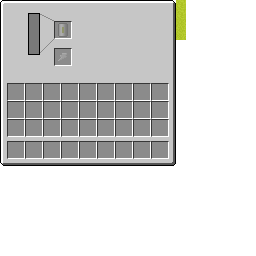
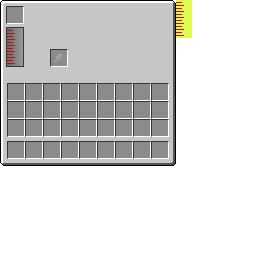
Recoded and redesigned the Fuel Loader GUI (not everything is functional at the moment)

diff --git a/src/minecraft/micdoodle8/mods/galacticraft/core/client/gui/GCCoreGuiFuelLoader.java b/src/minecraft/micdoodle8/mods/galacticraft/core/client/gui/GCCoreGuiFuelLoader.java
@@ -2,9 +2,12 @@ package micdoodle8.mods.galacticraft.core.client.gui;
 
 import mekanism.api.EnumColor;
 import micdoodle8.mods.galacticraft.API.IRefinableItem;
+import micdoodle8.mods.galacticraft.core.GalacticraftCore;
 import micdoodle8.mods.galacticraft.core.inventory.GCCoreContainerFuelLoader;
 import micdoodle8.mods.galacticraft.core.items.GCCoreItemFuelCanister;
+import micdoodle8.mods.galacticraft.core.items.GCCoreItems;
 import micdoodle8.mods.galacticraft.core.tile.GCCoreTileEntityFuelLoader;
+import net.minecraft.client.gui.GuiButton;
 import net.minecraft.client.gui.inventory.GuiContainer;
 import net.minecraft.entity.player.InventoryPlayer;
 import net.minecraft.item.ItemStack;
@@ -15,6 +18,7 @@ import org.lwjgl.opengl.GL11;
 
 import universalelectricity.core.electricity.ElectricityDisplay;
 import universalelectricity.core.electricity.ElectricityDisplay.ElectricUnit;
+import cpw.mods.fml.common.FMLLog;
 
 /**
  * Copyright 2012-2013, micdoodle8
@@ -25,6 +29,8 @@ import universalelectricity.core.electricity.ElectricityDisplay.ElectricUnit;
 public class GCCoreGuiFuelLoader extends GuiContainer
 {
     private final GCCoreTileEntityFuelLoader fuelLoaderInv;
+	
+    private GuiButton buttonLoadFuel;
 
 	public GCCoreGuiFuelLoader(InventoryPlayer par1InventoryPlayer, GCCoreTileEntityFuelLoader par2TileEntityAirDistributor)
 	{
@@ -33,26 +39,39 @@ public class GCCoreGuiFuelLoader extends GuiContainer
         this.ySize = 180;
 	}
 
+	@Override
+    public void initGui()
+    {
+    	super.initGui();
+    	
+        this.buttonList.add(buttonLoadFuel = new GuiButton(0, this.width / 2 + 2, this.height / 2 - 49, 76, 20, "Load Fuel"));
+    }
+
     @Override
     protected void drawGuiContainerForegroundLayer(int par1, int par2)
     {
-        this.fontRenderer.drawString("Fuel Loader", 60, 10, 4210752);
-        String status = "Status: ";
-        this.fontRenderer.drawString(status, this.xSize / 2 - this.fontRenderer.getStringWidth(status) / 2 + 35, 30, 4210752);
-        status = this.getStatus();
-        this.fontRenderer.drawString(status, this.xSize / 2 - this.fontRenderer.getStringWidth(status) / 2 + 35, 40, 4210752);
-        status = ElectricityDisplay.getDisplay(this.fuelLoaderInv.WATTS_PER_TICK * 20, ElectricUnit.WATT);
-        this.fontRenderer.drawString(status, this.xSize / 2 - this.fontRenderer.getStringWidth(status) / 2 + 35, 50, 4210752);
-        status = ElectricityDisplay.getDisplay(this.fuelLoaderInv.getVoltage(), ElectricUnit.VOLTAGE);
-        this.fontRenderer.drawString(status, this.xSize / 2 - this.fontRenderer.getStringWidth(status) / 2 + 35, 60, 4210752);
-        this.fontRenderer.drawString(StatCollector.translateToLocal("container.inventory"), 8, this.ySize - 102, 4210752);
+    	this.fontRenderer.drawString("Fuel Loader", 60, 10, 4210752);
+        this.buttonLoadFuel.enabled = !(this.fuelLoaderInv.fuelTank.getLiquid() == null || this.fuelLoaderInv.fuelTank.getLiquid().amount == 0);
+		this.fontRenderer.drawString("Status: " + this.getStatus(), 28, 45 + 23 - 46, 4210752);
+		this.fontRenderer.drawString(ElectricityDisplay.getDisplay(this.fuelLoaderInv.WATTS_PER_TICK * 20, ElectricUnit.WATT), 28, 56 + 23 - 46, 4210752);
+		this.fontRenderer.drawString(ElectricityDisplay.getDisplay(this.fuelLoaderInv.getVoltage(), ElectricUnit.VOLTAGE), 28, 68 + 23 - 46, 4210752);
+		this.fontRenderer.drawString(StatCollector.translateToLocal("container.inventory"), 8, this.ySize - 118 + 2 + 11, 4210752);
+//        String status = "Status: ";
+//        this.fontRenderer.drawString(status, this.xSize / 2 - this.fontRenderer.getStringWidth(status) / 2 + 35, 30, 4210752);
+//        status = this.getStatus();
+//        this.fontRenderer.drawString(status, this.xSize / 2 - this.fontRenderer.getStringWidth(status) / 2 + 35, 40, 4210752);
+//        status = ElectricityDisplay.getDisplay(this.fuelLoaderInv.WATTS_PER_TICK * 20, ElectricUnit.WATT);
+//        this.fontRenderer.drawString(status, this.xSize / 2 - this.fontRenderer.getStringWidth(status) / 2 + 35, 50, 4210752);
+//        status = ElectricityDisplay.getDisplay(this.fuelLoaderInv.getVoltage(), ElectricUnit.VOLTAGE);
+//        this.fontRenderer.drawString(status, this.xSize / 2 - this.fontRenderer.getStringWidth(status) / 2 + 35, 60, 4210752);
+//        this.fontRenderer.drawString(StatCollector.translateToLocal("container.inventory"), 8, this.ySize - 102, 4210752);
     }
     
     private String getStatus()
     {
-    	if (this.fuelLoaderInv.getStackInSlot(1) != null && (this.fuelLoaderInv.getStackInSlot(1).getMaxDamage() - this.fuelLoaderInv.getStackInSlot(1).getItemDamage()) == 0)
+    	if (this.fuelLoaderInv.fuelTank.getLiquid() == null || this.fuelLoaderInv.fuelTank.getLiquid().amount == 0)
     	{
-    		return EnumColor.DARK_RED + "Fuel Canister Empty!";
+    		return EnumColor.DARK_RED + "No Fuel to Load!";
     	}
 
     	if (this.fuelLoaderInv.getStackInSlot(1) != null && !(this.fuelLoaderInv.getStackInSlot(1).getItem() instanceof IRefinableItem))
@@ -60,22 +79,17 @@ public class GCCoreGuiFuelLoader extends GuiContainer
     		return EnumColor.DARK_RED + "Item Cannot Be Loaded!";
     	}
     	
-    	if (this.fuelLoaderInv.getStackInSlot(1) == null)
-    	{
-    		return EnumColor.DARK_RED + "No Fuel To Load!";
-    	}
-    	
-    	if (this.fuelLoaderInv.getStackInSlot(1).getItem() instanceof GCCoreItemFuelCanister && (this.fuelLoaderInv.wattsReceived > 0 || this.fuelLoaderInv.ic2WattsReceived > 0))
+    	if (this.fuelLoaderInv.wattsReceived > 0 || this.fuelLoaderInv.ic2WattsReceived > 0)
     	{
     		return EnumColor.DARK_GREEN + "Active";
     	}
+		
+//    	if (this.fuelLoaderInv.wattsReceived == 0 && this.fuelLoaderInv.ic2WattsReceived == 0)
+//    	{
+//    		return EnumColor.DARK_RED + "Not Enough Power";
+//    	}
     	
-    	if (this.fuelLoaderInv.wattsReceived == 0 && this.fuelLoaderInv.ic2WattsReceived == 0)
-    	{
-    		return EnumColor.DARK_RED + "Not Enough Power";
-    	}
-    	
-    	return EnumColor.DARK_RED + "Unknown";
+    	return EnumColor.ORANGE + "Ready";
     }
 
 	@Override
@@ -87,20 +101,9 @@ public class GCCoreGuiFuelLoader extends GuiContainer
 		final int var6 = (this.height - this.ySize) / 2;
 		this.drawTexturedModalRect(var5, var6 + 5, 0, 0, this.xSize, 181);
 		
-    	final ItemStack stack = this.fuelLoaderInv.getStackInSlot(1);
-
-    	if (stack != null)
-    	{
-			int scale = (int) ((double) (stack.getMaxDamage() - stack.getItemDamage()) / (double) stack.getMaxDamage() * 124);
-
-        	if (stack != null)
-        	{
-        		final int fuelLevel = stack.getMaxDamage() - stack.getItemDamage();
-        		
-        		float ratio = stack.getMaxDamage() / 40.0F;
-        		
-                this.drawTexturedModalRect(var5 + 29, MathHelper.ceiling_float_int(var6 + 58 - fuelLevel / ratio), 176, 0, 10, MathHelper.ceiling_float_int(fuelLevel / ratio));
-        	}
-        }
+		
+		final int fuelLevel = this.fuelLoaderInv.fuelTank.getLiquid() == null ? 0 : (this.fuelLoaderInv.fuelTank.getLiquid().amount / (GalacticraftCore.fuelStack.amount / GCCoreItems.fuelCanister.getMaxDamage() + 1));
+		
+        this.drawTexturedModalRect(((width - xSize) / 2) + 7, ((height - ySize) / 2) + 17 + 54 - fuelLevel, 176, 38 - fuelLevel, 16, fuelLevel);
 	}
 }

diff --git a/src/minecraft/micdoodle8/mods/galacticraft/core/tile/GCCoreTileEntityFuelLoader.java b/src/minecraft/micdoodle8/mods/galacticraft/core/tile/GCCoreTileEntityFuelLoader.java
@@ -160,7 +160,7 @@ public class GCCoreTileEntityFuelLoader extends TileEntityElectricityRunnable im
 	@Override
 	public Packet getDescriptionPacket()
 	{
-		return PacketManager.getPacket(BasicComponents.CHANNEL, this, this.wattsReceived, this.disabledTicks, this.ic2WattsReceived);
+		return PacketManager.getPacket(BasicComponents.CHANNEL, this, this.wattsReceived, this.disabledTicks, this.ic2WattsReceived, this.fuelTank.getLiquid() == null ? 0 : this.fuelTank.getLiquid().amount);
 	}
 
 	@Override
@@ -170,9 +170,11 @@ public class GCCoreTileEntityFuelLoader extends TileEntityElectricityRunnable im
 		{
 			if (this.worldObj.isRemote)
 			{
-				this.wattsReceived = dataStream.readInt();
+				this.wattsReceived = dataStream.readDouble();
 				this.disabledTicks = dataStream.readInt();
 				this.ic2WattsReceived = dataStream.readDouble();
+				int amount = dataStream.readInt();
+				this.fuelTank.setLiquid(new LiquidStack(GCCoreItems.fuel.itemID, amount, 0));
 			}
 		}
 		catch (Exception e)

diff --git a/src/minecraft/micdoodle8/mods/galacticraft/core/inventory/GCCoreContainerFuelLoader.java b/src/minecraft/micdoodle8/mods/galacticraft/core/inventory/GCCoreContainerFuelLoader.java
@@ -17,8 +17,8 @@ public class GCCoreContainerFuelLoader extends Container
     public GCCoreContainerFuelLoader(InventoryPlayer par1InventoryPlayer, GCCoreTileEntityFuelLoader fuelLoader)
     {
     	this.fuelLoader = fuelLoader;
-		this.addSlotToContainer(new SlotSpecific(fuelLoader, 0, 55, 54, IItemElectric.class));
-		this.addSlotToContainer(new SlotSpecific(fuelLoader, 1, 55, 27, IFuelTank.class));
+		this.addSlotToContainer(new SlotSpecific(fuelLoader, 0, 51, 55, IItemElectric.class));
+		this.addSlotToContainer(new Slot(fuelLoader, 1, 7, 12));
 
         int var6;
         int var7;
